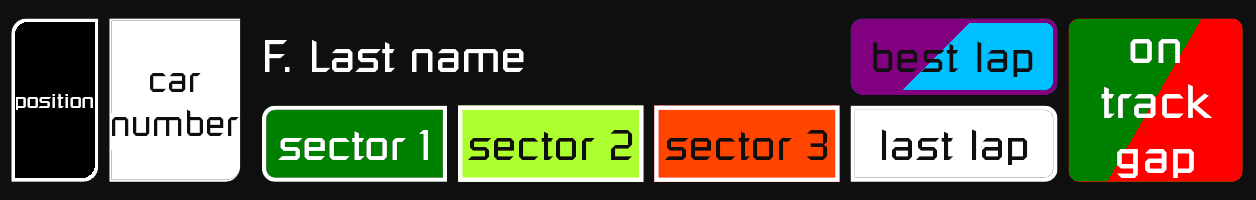
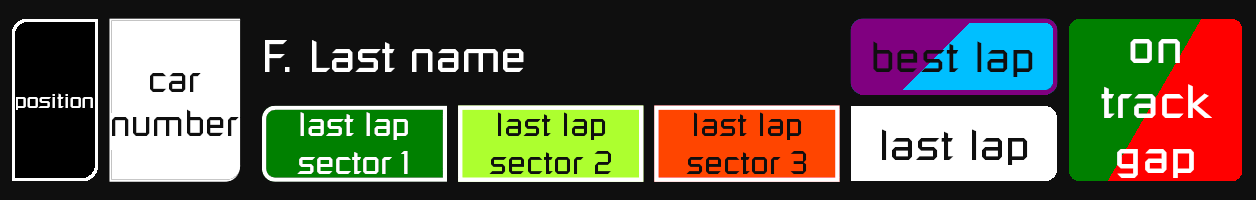
added qualification mode
in qualification leaderboard shows
screen 1
best lap time, best lap delta to focused (instead of last lap)
on track gap is disabled
screen 2
best lap time, best lap delta to focused (instead of last lap)
best sector times/gaps (instead of last lap sectors)
on track gap is disabled

readme fix: using Best sector times not Best lap sector times
closes #1

diff --git a/gaps-overlay-screen.js b/gaps-overlay-screen.js
@@ -112,7 +112,10 @@ function bestLapBoxBackground(LBposition) {
   if (driver_HasBestLap(LBposition)) {
     return "Purple";
   }
-  if (DynLeaderboardsPluginProp(leaderBoardName, LBposition, "IsFocused") === 1) {
+  if (
+    DynLeaderboardsPluginProp(leaderBoardName, LBposition, "IsFocused") === 1 ||
+    $prop("DataCorePlugin.GameData.SessionTypeName") === "QUALIFY"
+  ) {
     return "DeepSkyBlue";
   }
   return gapBackgroundColor(driver_BestLapDelta(LBposition), "DeepSkyBlue");
@@ -125,6 +128,7 @@ function bestLapBoxTextColor(LBposition) {
 function bestLapBoxText(LBposition) {
   const _delta = driver_BestLapDelta(LBposition);
   if (
+    $prop("DataCorePlugin.GameData.SessionTypeName") === "QUALIFY" ||
     _delta === null ||
     Math.abs(_delta) >= 60 ||
     DynLeaderboardsPluginProp(leaderBoardName, LBposition, "IsFocused") === 1 ||
@@ -139,6 +143,12 @@ function bestLapBoxText(LBposition) {
  * last lap box functions
  */
 function lastLapBoxVisible(LBposition) {
+  if ($prop("DataCorePlugin.GameData.SessionTypeName") === "QUALIFY") {
+    if (driver_BestLapDelta(LBposition) === null) {
+      return false;
+    }
+    return true;
+  }
   if (driver_LastLapTime(LBposition) === null) {
     return false;
   }
@@ -146,6 +156,9 @@ function lastLapBoxVisible(LBposition) {
 }
 
 function lastLapBoxBackground(LBposition) {
+  if ($prop("DataCorePlugin.GameData.SessionTypeName") === "QUALIFY") {
+    return gapBackgroundColor(driver_BestLapDelta(LBposition), "DeepSkyBlue");
+  }
   const _lastIsPB = driver_LastLapTime(LBposition) === driver_BestLapTime(LBposition);
   if (_lastIsPB && driver_HasBestLap(LBposition)) {
     return "Purple";
@@ -161,6 +174,9 @@ function lastLapBoxTextColor(LBposition) {
 }
 
 function lastLapBoxText(LBposition) {
+  if ($prop("DataCorePlugin.GameData.SessionTypeName") === "QUALIFY") {
+    return format(driver_BestLapDelta(LBposition), "0.0", true);
+  }
   const _delta = driver_LastLapDelta(LBposition);
   if (
     _delta === null ||
@@ -185,7 +201,10 @@ function deltaBoxCheckered(LBposition) {
 }
 
 function deltaBoxVisible(LBposition) {
-  if (DynLeaderboardsPluginProp(leaderBoardName, LBposition, "IsFocused") === 1) {
+  if (
+    DynLeaderboardsPluginProp(leaderBoardName, LBposition, "IsFocused") === 1 ||
+    $prop("DataCorePlugin.GameData.SessionTypeName") === "QUALIFY"
+  ) {
     return false;
   }
   return true;
@@ -210,15 +229,24 @@ function deltaBoxText(LBposition) {
  * sectors boxes functions
  */
 function sectorBoxVisible(LBposition, sector) {
+  if ($prop("DataCorePlugin.GameData.SessionTypeName") === "QUALIFY") {
+    return driver_BestSectorTime(LBposition, sector) !== null;
+  }
   return driver_LastLapSectorTime(LBposition, sector) !== null;
 }
 
 function sectorBoxBackground(LBposition, sector) {
-  const _delta = driver_LastLapSectorDelta(LBposition, sector);
+  let _delta = driver_LastLapSectorDelta(LBposition, sector);
+  if ($prop("DataCorePlugin.GameData.SessionTypeName") === "QUALIFY") {
+    _delta = driver_BestSectorDelta(LBposition, sector);
+  }
   if (DynLeaderboardsPluginProp(leaderBoardName, LBposition, "IsFocused") === 1 || _delta === null) {
+    if ($prop("DataCorePlugin.GameData.SessionTypeName") === "QUALIFY") {
+      return "DeepSkyBlue";
+    }
     return driver_LastSectorIsPB(LBposition, sector) ? "DeepSkyBlue" : "White";
   }
-  return gapBackgroundColor(driver_LastLapSectorDelta(LBposition, sector), "White");
+  return gapBackgroundColor(_delta, "White");
 }
 
 function sectorBoxTextColor(LBposition, sector) {
@@ -226,9 +254,14 @@ function sectorBoxTextColor(LBposition, sector) {
 }
 
 function sectorBoxText(LBposition, sector) {
-  const _delta = driver_LastLapSectorDelta(LBposition, sector);
+  let _delta = driver_LastLapSectorDelta(LBposition, sector);
+  let _time = driver_LastLapSectorTime(LBposition, sector);
+  if ($prop("DataCorePlugin.GameData.SessionTypeName") === "QUALIFY") {
+    _delta = driver_BestSectorDelta(LBposition, sector);
+    _time = driver_BestSectorTime(LBposition, sector);
+  }
   if (DynLeaderboardsPluginProp(leaderBoardName, LBposition, "IsFocused") === 1 || _delta === null) {
-    return format(driver_LastLapSectorTime(LBposition, sector), "0.0", false);
+    return format(_time, "0.0", false);
   }
   return format(_delta, "0.0", true);
 }

diff --git a/gaps-overlay-src.js b/gaps-overlay-src.js
@@ -182,6 +182,23 @@ function driver_BestSectorTime(position, sectorNr) {
   return DynLeaderboardsPluginProp(leaderBoardName, position, "BestS" + sectorNr);
 }
 /**
+ * calculate driver best sector time delta to focused
+ * @param {number} position driver position in leader board
+ * @param {number} sectorNr sector number
+ * @returns delta in seconds
+ */
+function driver_BestSectorDelta(position, sectorNr) {
+  const _driverBestLapSector = driver_BestSectorTime(position, sectorNr);
+  const _focusedBestLapSector = driver_BestSectorTime(
+    $prop("DynLeaderboardsPlugin." + leaderBoardName + ".FocusedPosInCurrentLeaderboard") + 1,
+    sectorNr
+  );
+  if (_driverBestLapSector === null || _focusedBestLapSector === null) {
+    return null;
+  }
+  return Math.min(Math.max(_focusedBestLapSector - _driverBestLapSector, -99.9), 99.9);
+}
+/**
  *
  * @param {number} position driver position in leader board
  * @param {number} sectorNr sector number to compare

diff --git a/README.md b/README.md
@@ -9,11 +9,19 @@
 
 ## screen 1
 
+### race
 <img src="images/screen1-row.png" width ="750px">
+
+### qualify
+<img src="images/screen1-qualify-row.png" width ="750px">
 
 ## screen 2
 
+### race
 <img src="images/screen2-row.png" width ="750px">
+
+### qualify
+<img src="images/screen2-qualify-row.png" width ="750px">
 
 ## background colors
 
@@ -71,7 +79,7 @@ go to **SimHub** -> **DynLeaderboard** side tab -> **Dynamic leaderboards** tab
   - :white_check_mark: Laps.Last.Time
   - :white_check_mark: Laps.Last.S1/2/3
   - :white_check_mark: Laps.Best.Time
-  - :white_check_mark: Laps.Best.S1/2/3
+  - :white_check_mark: BestS1/2/3
 - `Best to best`
   - :white_check_mark: Laps.Best.Delta.ToOverallBest
   - :white_check_mark: Laps.Best.Delta.ToClassBest
